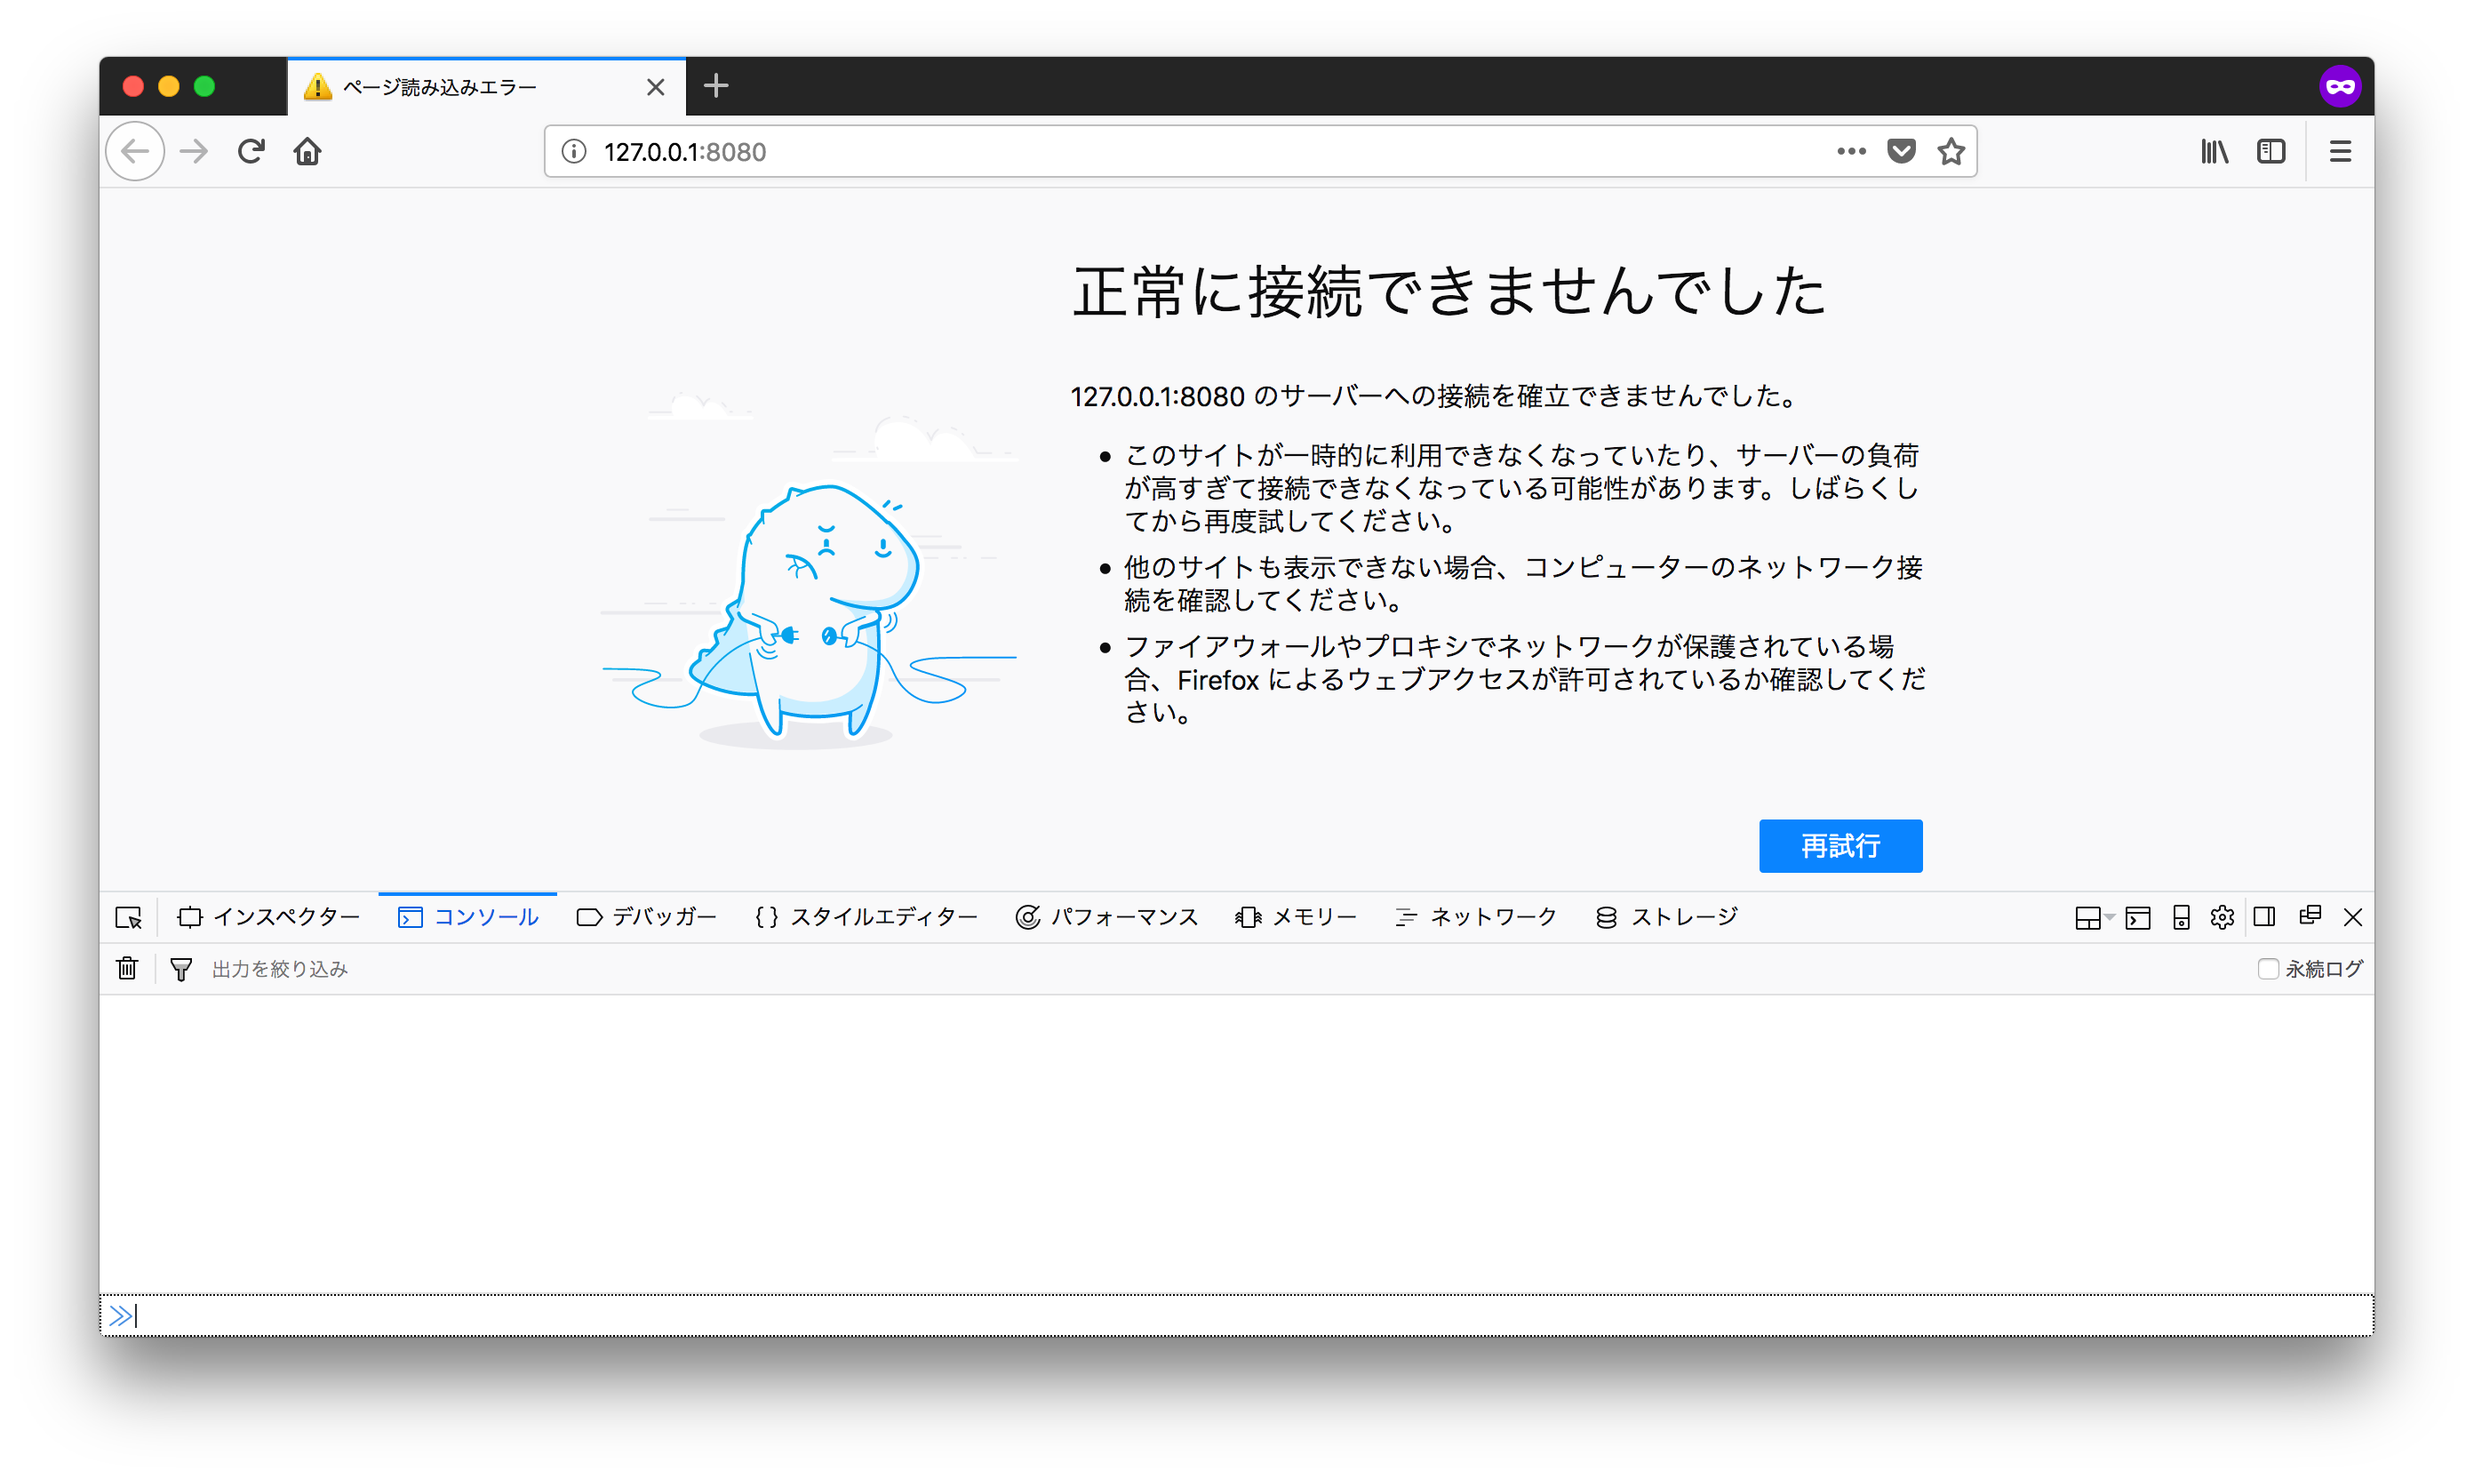
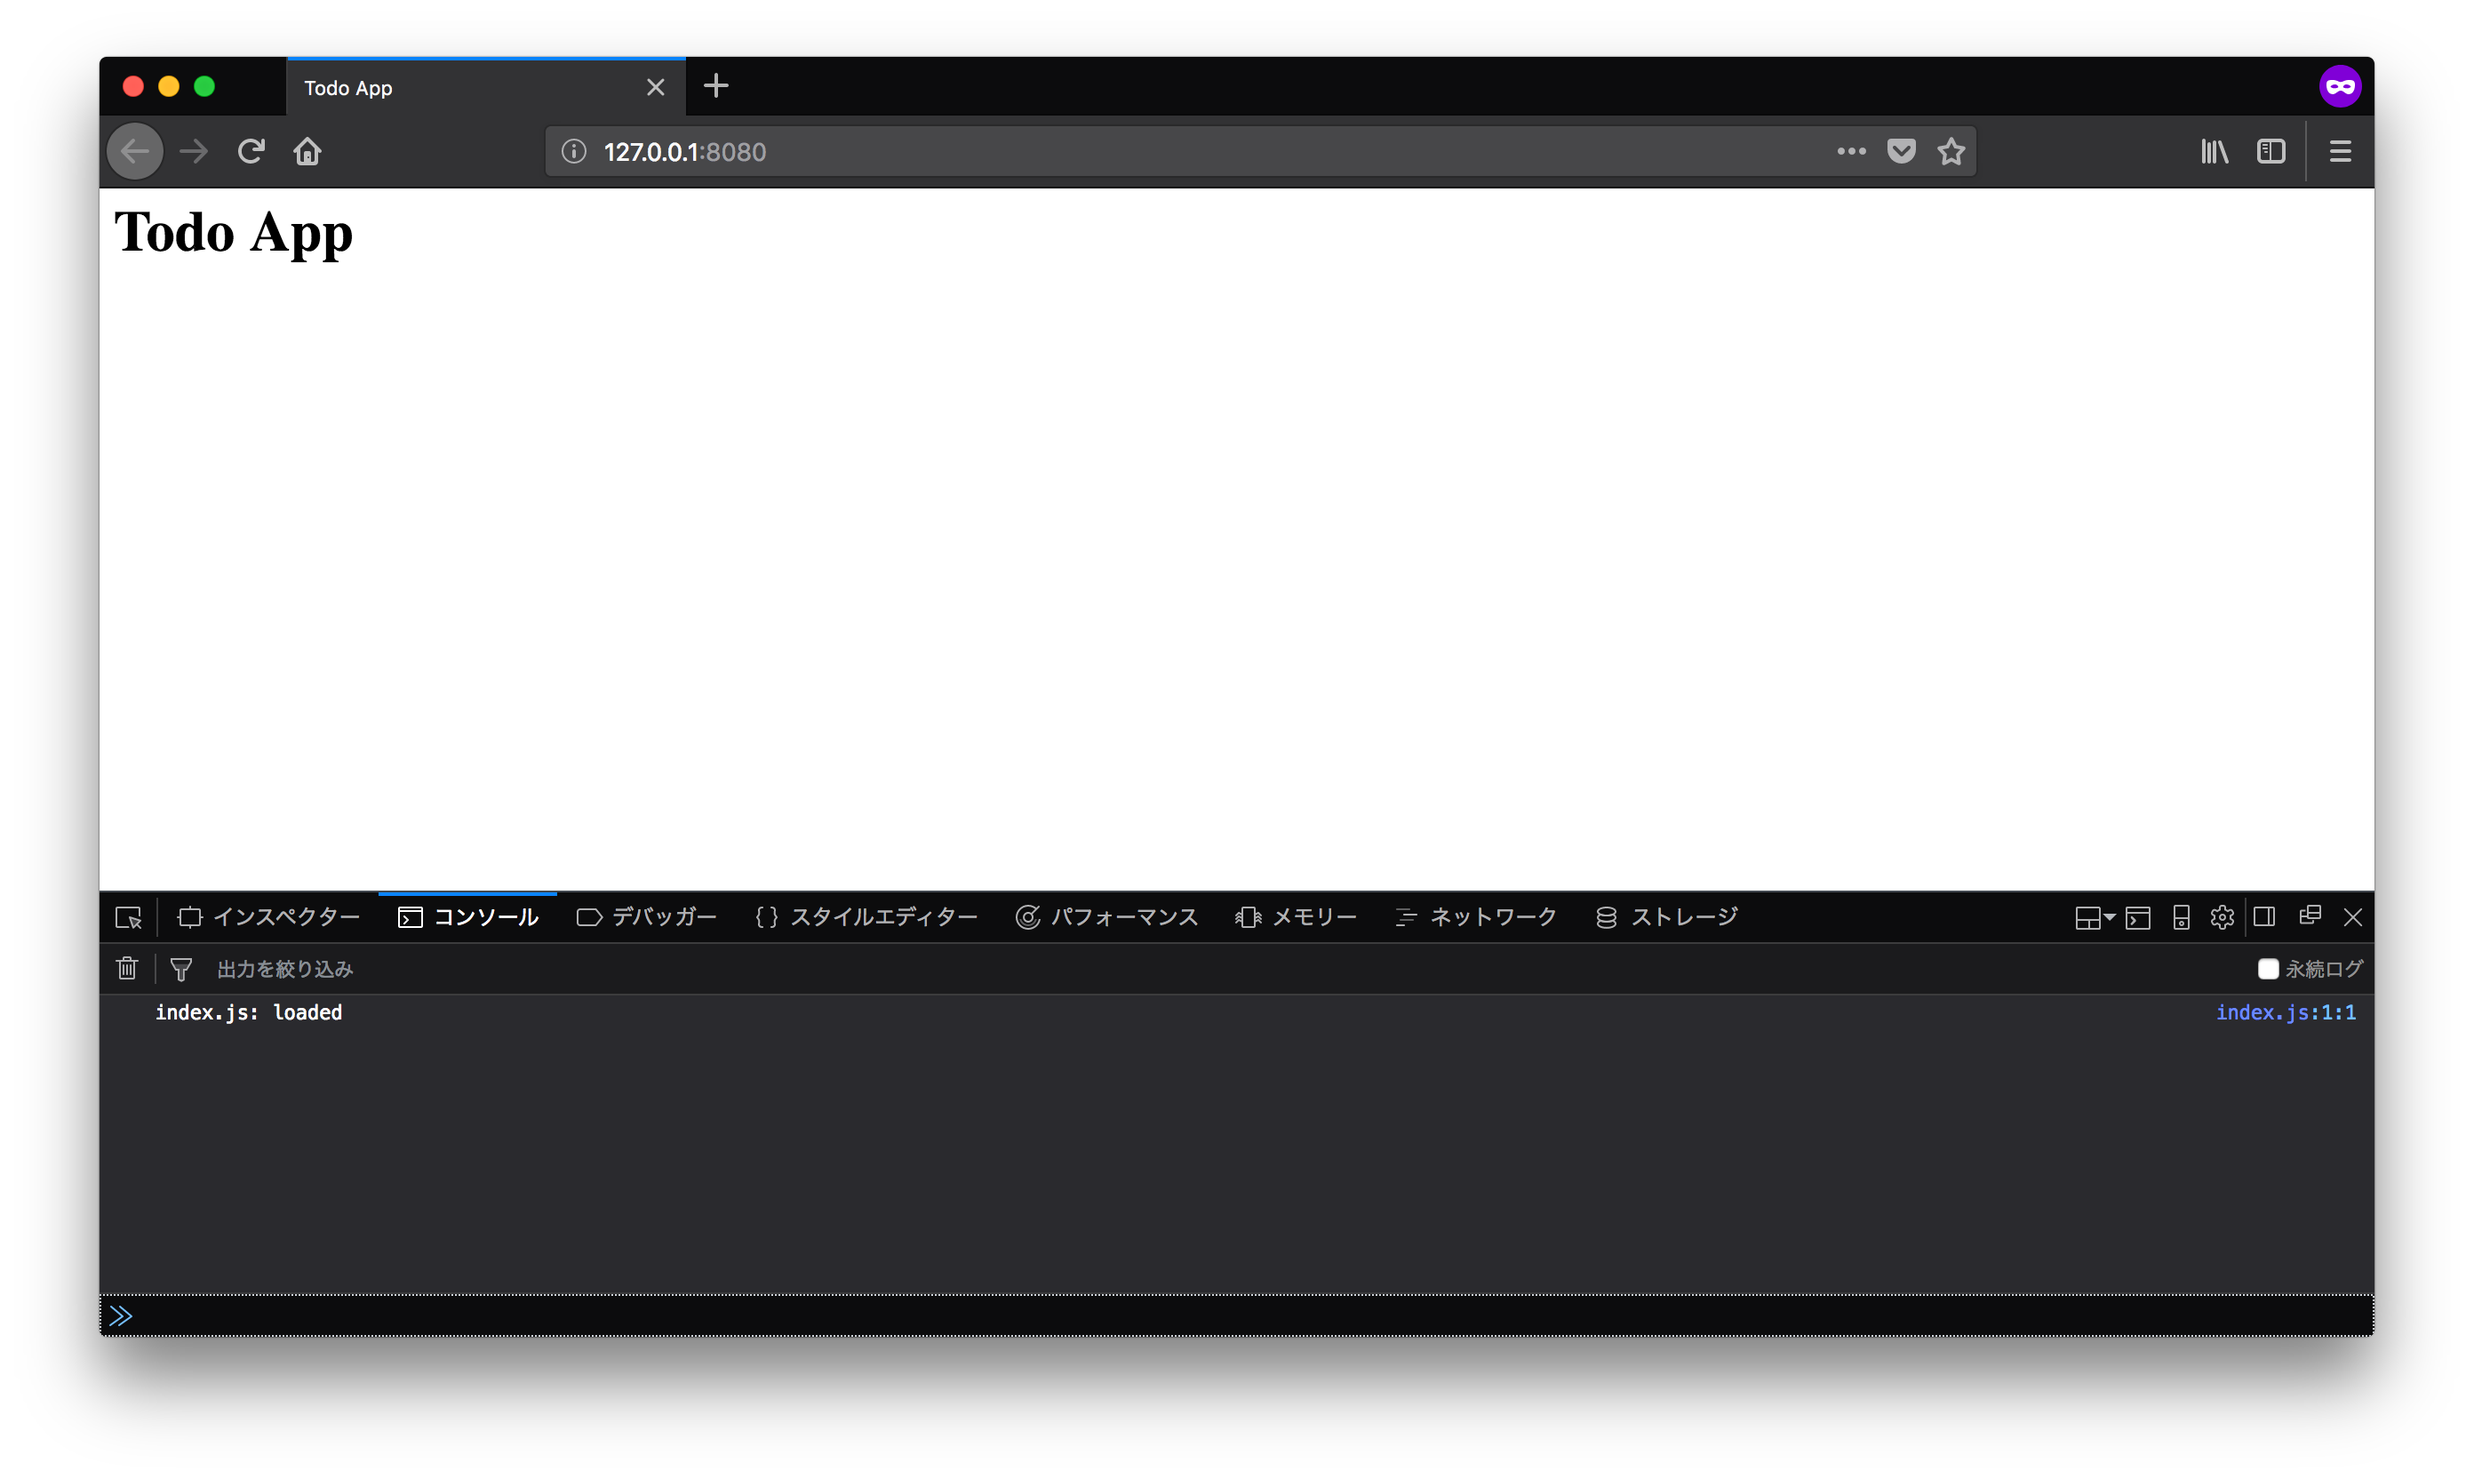
refactor(todoapp): エントリポイントの説明を整理

diff --git a/tools/applescript/modules/firefox.ts b/tools/applescript/modules/firefox.ts
@@ -4,14 +4,14 @@ export function launchFirefox({ url, profileName }: { url: string, profileName: 
     return runJxa((url, profileName) => {
         var app = Application.currentApplication();
         app.includeStandardAdditions = true;
-        app.doShellScript(`open -a /Applications/Firefox.app --args -no-remote -CreateProfile '${profileName}'`);
-        app.doShellScript(`open -a /Applications/Firefox.app --args -private-window '${url}' -no-remote -P '${profileName}'`);
+        app.doShellScript(`open -a /Applications/FirefoxDeveloperEdition.app --args -no-remote -CreateProfile '${profileName}'`);
+        app.doShellScript(`open -a /Applications/FirefoxDeveloperEdition.app --args -private-window '${url}' -no-remote -P '${profileName}'`);
     })(url, profileName);
 }
 
 export function quitFirefox() {
     return runJxa(() => {
-        const Firefox = Application("Firefox");
+        const Firefox = Application("FirefoxDeveloperEdition");
         Firefox.quit();
     })();
 }
@@ -21,7 +21,7 @@ export function screenshotFirefox(outputFilePath: string) {
     return runJxa((outputFilePath) => {
         const app = Application.currentApplication();
         app.includeStandardAdditions = true;
-        const Firefox = Application("Firefox");
+        const Firefox = Application("FirefoxDeveloperEdition");
         Firefox.activate();
         delay(0.3);
         const window = Firefox.windows[0];

diff --git a/tools/applescript/todoapp/screenshot-dev-tools.ts b/tools/applescript/todoapp/screenshot-dev-tools.ts
@@ -1,20 +1,24 @@
 import { launchFirefox, quitFirefox, screenshotFirefox } from "../modules/firefox";
 import { sendKeyStroke } from "../modules/keyboard-util";
 import * as path from "path";
+import { wait } from "../modules/wait";
 
 const profileName = "js-primer";
 const outputFilePath = path.resolve(path.join(__dirname, "../../../../source/use-case/todoapp/entrypoint/img/entry-point.png"));
 console.log("outputFilePath", outputFilePath);
 (async function () {
     await quitFirefox();
+    await wait(1000);
     await launchFirefox({
         url: "http://127.0.0.1:8080",
         profileName
     });
+    await wait(1000);
     await sendKeyStroke("i", {
         command: true,
         option: true
     });
+    await wait(1000);
     await screenshotFirefox(outputFilePath);
     await quitFirefox();
 })();

diff --git a/tools/applescript/modules/keyboard-util.ts b/tools/applescript/modules/keyboard-util.ts
@@ -30,7 +30,7 @@ export function sendKeyStroke(key: string, modifierOption: ModifierOption) {
     const modifiers = createModifier(modifierOption);
     return runJxa((key, modifiers) => {
         const SystemEvents = Application("System Events");
-        const Firefox = Application("Firefox");
+        const Firefox = Application("FirefoxDeveloperEdition");
         Firefox.activate();
         delay(1.0); // wait for active
         SystemEvents.keystroke(key, { using: modifiers });

diff --git a/tools/applescript/modules/wait.ts b/tools/applescript/modules/wait.ts
@@ -1,0 +1,5 @@
+export const wait = (waitMs: number) => {
+    return new Promise(resolve => {
+        setTimeout(resolve, waitMs);
+    })
+};

diff --git a/source/use-case/todoapp/entrypoint/index.js b/source/use-case/todoapp/entrypoint/index.js
@@ -1,3 +1,1 @@
 console.log("index.js: loaded");
-import { App } from "./src/App";
-const app = new App();
